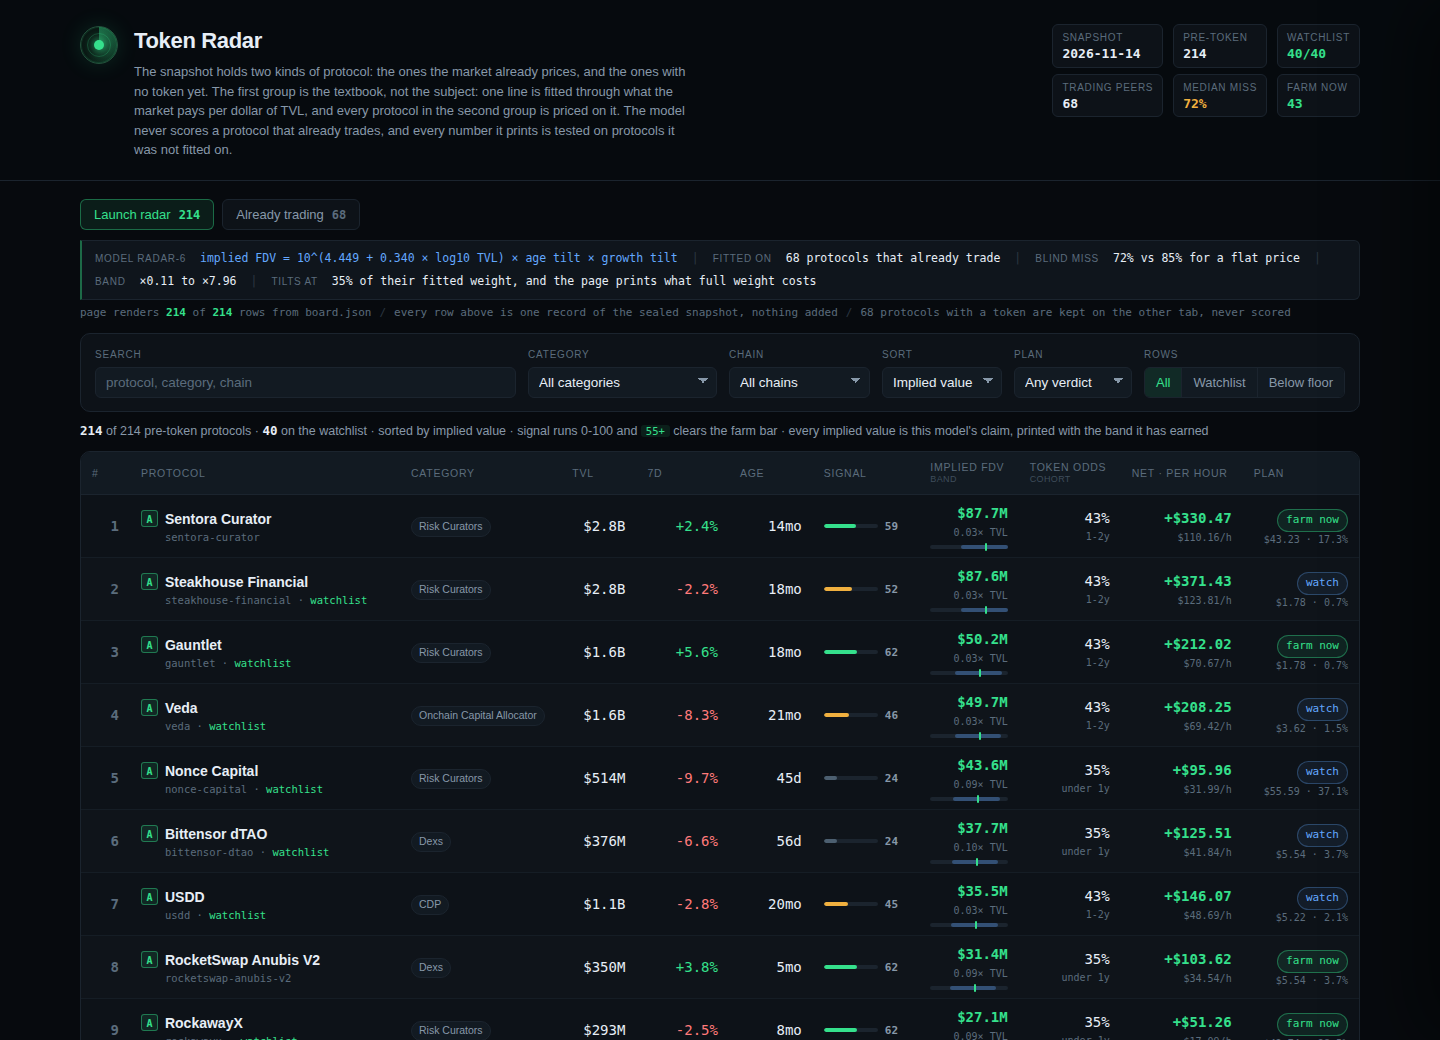
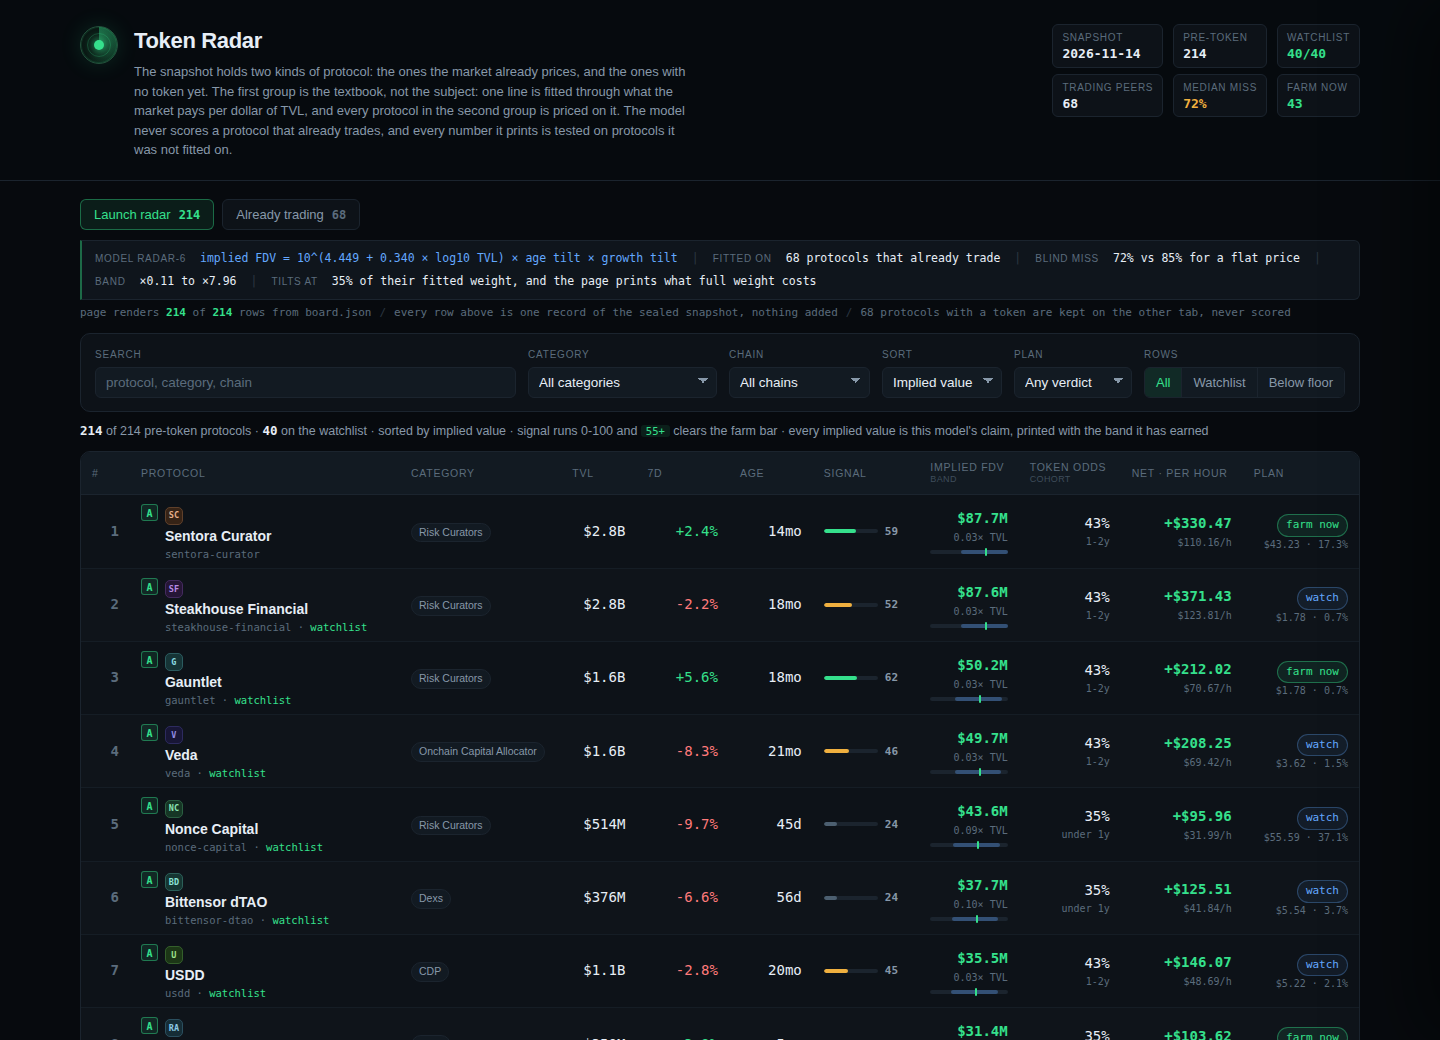
Draw a monogram per protocol from its own slug
The snapshot carries no logo field and the page may not fetch one, so the board draws its
own mark: initials on a hue hashed from the slug, identical across builds and rows.

diff --git a/dashboard/app.js b/dashboard/app.js
@@ -50,6 +50,23 @@ const pctOf = (v) => `${(v * 100).toFixed(1)}%`;
 const sign = (v, d = 3) => (v >= 0 ? `+ ${v.toFixed(d)}` : `− ${Math.abs(v).toFixed(d)}`);
 const cohort = (d) => (d === null || d === undefined ? 'unknown' : d < 365 ? 'under 1y' : d < 730 ? '1-2y' : d < 1095 ? '2-3y' : d < 1825 ? '3-5y' : '5y+');
 const signed = (n) => `${n < 0 ? '−' : '+'}$${Math.abs(n).toFixed(2)}`;
+/** A protocol's own colour and monogram, derived from its slug: the snapshot names no brand asset,
+ *  and a page that cannot fetch one draws its own. Same slug, same mark, every build. */
+const hueOf = (s) => {
+  let h = 7;
+  for (let i = 0; i < s.length; i++) h = (h * 31 + s.charCodeAt(i)) % 360;
+  return h;
+};
+const initialsOf = (n) =>
+  n
+    .replace(/[^A-Za-z0-9 ]/g, ' ')
+    .split(/\s+/)
+    .filter(Boolean)
+    .slice(0, 2)
+    .map((w) => w[0].toUpperCase())
+    .join('');
+const markOf = (r, size = '') =>
+  `<span class="mark${size ? ` ${size}` : ''}" style="--h:${hueOf(r.slug)}">${initialsOf(r.name)}</span>`;
 
 /* ---------- the model's equation, above the board ---------- */
 
@@ -240,6 +257,7 @@ function drawBoard() {
       (r) => `<tr data-slug="${esc(r.slug)}"${state.open === r.slug ? ' class="active"' : ''}>
       <td class="num rank">${r.rank}</td>
       <td><span class="tier ${r.tier}">${r.tier}</span><span class="who" style="display:inline-flex">
+        ${markOf(r)}
         <span class="n">${esc(r.name)}</span>
         <span class="s">${esc(r.slug)}${r.wl ? ' · <span class="wl">watchlist</span>' : ''}</span></span></td>
       <td><span class="chip">${esc(r.category)}</span></td>
@@ -299,7 +317,7 @@ function open(slug) {
     : `${(r.chains || []).slice(0, 3).join(', ')} +${(r.chains || []).length - 3}`;
 
   el('drawerBody').innerHTML = `
-    <h2>${esc(r.name)}</h2>
+    <h2>${markOf(r, 'big')}${esc(r.name)}</h2>
     <p class="sub">${esc(r.category)} · ${esc(chainLine)} · rank ${r.rank} of ${rows.length} · tier ${r.tier}${r.wl ? ' · <span style="color:var(--value)">on the watchlist</span>' : ''}</p>
     <p class="big"><strong>${usd(r.implied)}</strong><em>implied FDV if it issued a token · ${r.multiple.toFixed(2)}× its ${usd(r.tvl)} of TVL</em></p>
     <div class="band2"><i style="left:${at(r.low).toFixed(1)}%;width:${Math.max(at(r.high) - at(r.low), 1).toFixed(1)}%"></i><u style="left:${at(r.implied).toFixed(1)}%"></u></div>

diff --git a/dashboard/app.css b/dashboard/app.css
@@ -304,3 +304,30 @@ th.num { text-align: right; }
 .subline { display: block; color: var(--dim); font-size: 10px; margin-top: 1px; }
 .odds-cell { color: var(--text); }
 .odds-cell span { display: block; color: var(--dim); font-size: 10px; }
+
+/* the protocol's own mark: initials on a colour derived from its slug, no asset to fetch */
+.mark {
+  flex: 0 0 auto;
+  width: 18px;
+  height: 18px;
+  margin-right: 7px;
+  border-radius: 5px;
+  display: inline-flex;
+  align-items: center;
+  justify-content: center;
+  font: 600 8.5px/1 var(--mono);
+  letter-spacing: 0.02em;
+  color: hsl(var(--h) 62% 72%);
+  background: hsl(var(--h) 42% 15%);
+  border: 1px solid hsl(var(--h) 38% 27%);
+  vertical-align: middle;
+}
+.mark.big {
+  width: 26px;
+  height: 26px;
+  border-radius: 7px;
+  font-size: 11px;
+  margin-right: 9px;
+  vertical-align: -4px;
+}
+tr:hover .mark { border-color: hsl(var(--h) 45% 40%); }

diff --git a/README.md b/README.md
@@ -81,6 +81,8 @@ A single static page, no network, no framework, no images:
 
 • a board sorted by implied value, with search, category, chain, sort, plan and watchlist /
   below-floor filters, plus token odds and net-per-hour columns
+• a monogram per protocol — initials on a colour derived from its own slug, drawn on the page, since
+  the snapshot carries no brand asset and the page may fetch nothing
 • the model's equation above the board, and a panel below it with the blind tests, the guard, the
   band and a bar chart of the age-to-token curve
 • a detail drawer per protocol: the raw curve value, the clamp, the band, the odds, the airdrop, the
